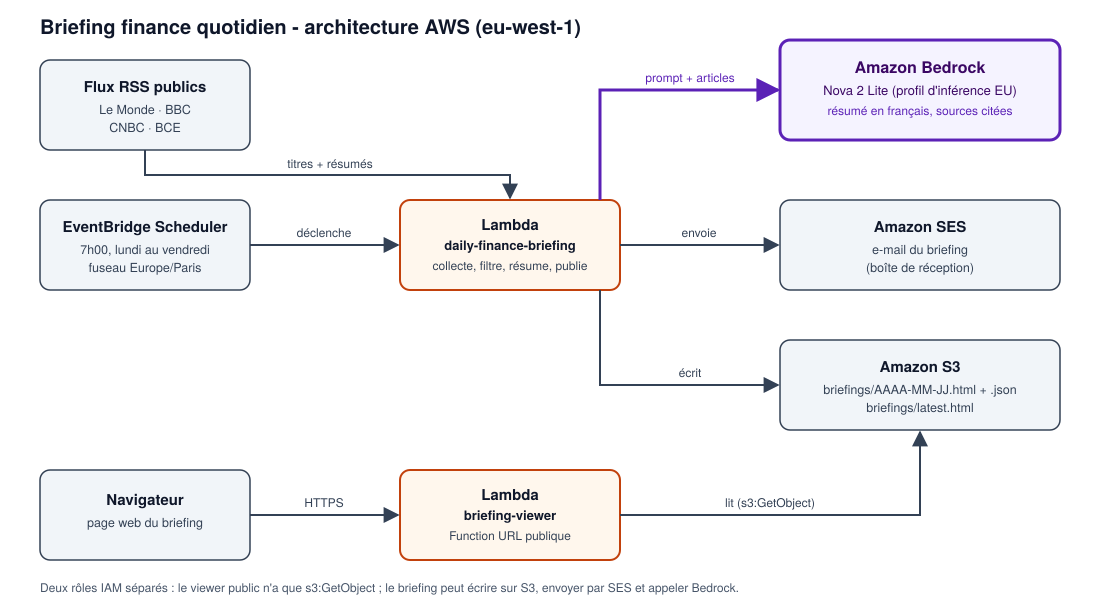
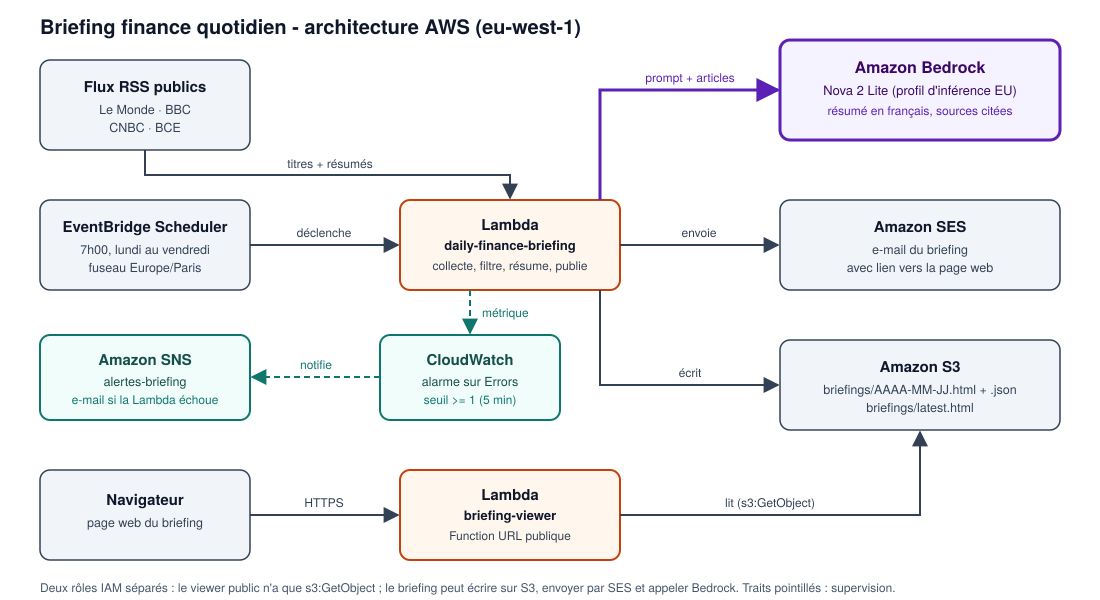
docs: architecture mise à jour (supervision CloudWatch/SNS, lien web dans l'e-mail) et description du fonctionnement

diff --git a/README.md b/README.md
@@ -4,18 +4,12 @@ Chaque matin en semaine, un e-mail résume l'actualité financière (flux RSS pu
 
 ![Architecture](docs/architecture.svg)
 
-```
-EventBridge Scheduler (7h00, lun-ven)
-        |
-        v
-  Lambda "daily-finance-briefing"
-    1. lit les flux RSS (stdlib)
-    2. résume avec Bedrock (Nova 2 Lite, profil EU)
-    3. écrit la page dans S3 (briefings/)
-    4. envoie l'e-mail via SES
-                                   S3 --> Lambda "briefing-viewer" --> Function URL (page web)
-Budgets + CloudWatch : coûts et logs
-```
+Comment ça marche :
+1. **EventBridge Scheduler** déclenche la Lambda `daily-finance-briefing` à 7h00 (Europe/Paris), du lundi au vendredi.
+2. La Lambda lit les flux RSS publics (bibliothèque standard), écarte les articles sans information, puis demande à **Amazon Bedrock** (Nova 2 Lite, profil d'inférence EU) un résumé en français avec sources citées.
+3. Elle écrit la page dans **S3** (`briefings/`) et envoie l'e-mail via **SES**, avec un lien vers la page web.
+4. La Lambda `briefing-viewer` (Function URL, rôle IAM minimal en lecture S3) sert le dernier briefing.
+5. **CloudWatch** surveille les erreurs de la Lambda et prévient par e-mail via **SNS**. **Budgets** surveille les coûts.
 
 **Région à utiliser partout : Europe (Irlande) `eu-west-1`.** (Bedrock, SES et le profil d'inférence `eu.` y sont disponibles ; vérifie que la région affichée en haut à droite de la console reste la même à chaque étape.)
 
